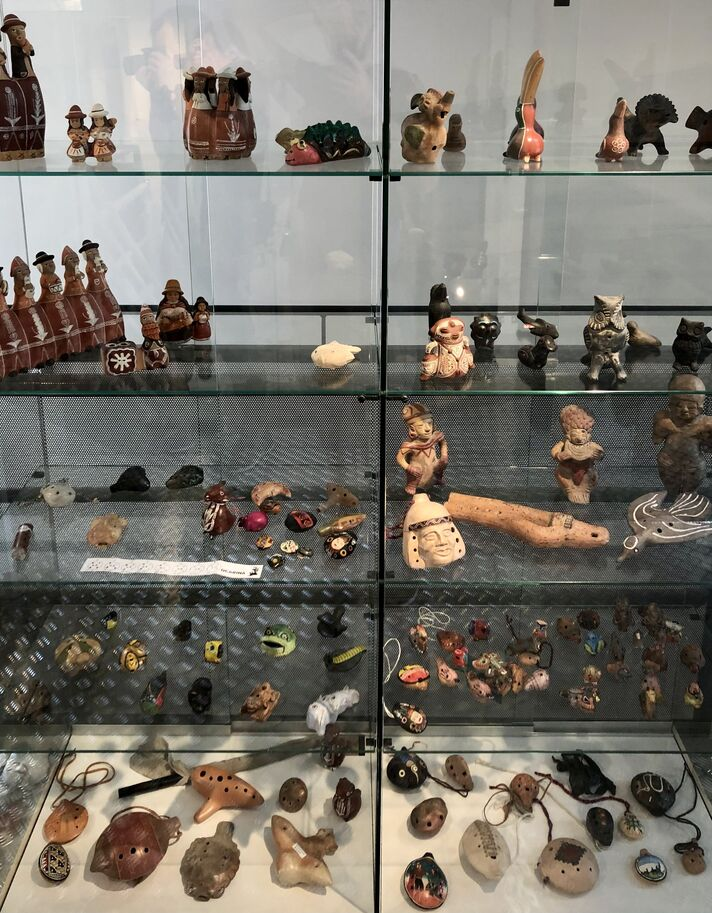
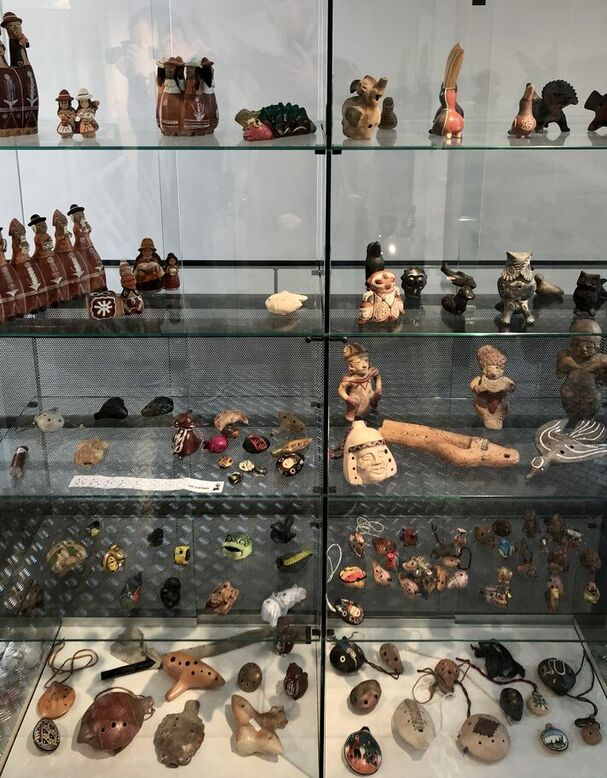
fix usa

Changed region(s): [[0.0593, 0.9254, 0.089, 0.9563]]

diff --git a/it/mondo.html b/it/mondo.html
@@ -122,7 +122,7 @@
 			<h2>Europa</h2>
 			<p>Oltre che a Budrio, sono attivi <strong>vari costruttori in Italia ed Europa</strong>: Austria (dove l'ocarina è comunemente utilizzata nella musica popolare), Germania, Francia, Spagna, Romania, Scandinavia ecc. In molti casi la costruzione di ocarine si unisce a quella dei tradizionali fischietti in argilla.<br />
 			In Gran Bretagna è molto diffusa (anche nelle scuole) un tipo di ocarina a forma di uovo con 4 o 6 fori, inventato dal musicista John Taylor negli anni '60 ispirandosi ai flaut globulari sudamericani.</p>
-			<div class="teche">
+			<div class="teche2">
 				<div class="card griglia">
 					<img src="../img/tecaitalia.jpg" class="card-img-top" alt="costruttori italiani contemporanei">
 					<div class="card-body">
@@ -133,12 +133,6 @@
 					<img src="../img/tecaeuropa.jpg" class="card-img-top" alt="costruttori europei">
 					<div class="card-body">
 						<p class="card-text">Austria e Europa</p>
-					</div>
-				</div>
-				<div class="card griglia">
-					<img src="../img/tecaing.jpg" class="card-img-top" alt="costruttori inglesi">
-					<div class="card-body">
-						<p class="card-text">Gran Bretagna</p>
 					</div>
 				</div>
 			</div>
@@ -174,7 +168,20 @@
 			<h2>America</h2>
 			<p>Negli USA l'ocarina è abbastanza popolare tra i giovani, anche grazie al successo del videogioco <em>The Legend of Zelda: Ocarina of Time</em> della Nintendo.</p>
 			<p>In <strong>America Latina</strong> (Cile, Perù, Messico, America Centrale) i flauti globulari zoomorfi ed antropomorfi hanno una tradizione antichissima che prosegue ancora oggi</p>
-			<div style="text-align: center;"><img src="../img/fischiettiamerica.jpg" alt="fischietti sudamericani" style="max-width: 90vw; width: 500px;" /></div>
+			<div class="teche2">
+				<div class="card griglia">
+					<img src="../img/tecausa.jpg" class="card-img-top" alt="costruttori statunitensi">
+					<div class="card-body">
+						<p class="card-text">USA</p>
+					</div>
+				</div>
+				<div class="card griglia">
+					<img src="../img/fischiettiamerica.jpg" class="card-img-top" alt="fischietti america latina">
+					<div class="card-body">
+						<p class="card-text">America Latina</p>
+					</div>
+				</div>
+			</div>
 		</section>
 
 		<section class="sezioni maxw spazio">

diff --git a/en/world.html b/en/world.html
@@ -122,7 +122,7 @@
 			<h2>Europe</h2>
 			<p>Outside of Budrio, <strong>various manufacturers are active in Italy and Europe</strong>: Austria (where the ocarina is commonly used in popular music)), Germany, France, Spain, Romania, Scandinavia, etc. In many cases the construction of ocarinas is combined with that of traditional clay whistles.<br />
 			In Great Britain a type of egg-shaped ocarina with 4 or 6 holes is very common (even in schools), invented by the musician John Taylor in the 60s inspired by South American globular flutes.</p>
-			<div class="teche">
+			<div class="teche2">
 				<div class="card griglia">
 					<img src="../img/tecaitalia.jpg" class="card-img-top" alt="costruttori italiani contemporanei">
 					<div class="card-body">
@@ -133,12 +133,6 @@
 					<img src="../img/tecaeuropa.jpg" class="card-img-top" alt="costruttori europei">
 					<div class="card-body">
 						<p class="card-text">Austria and Europe</p>
-					</div>
-				</div>
-				<div class="card griglia">
-					<img src="../img/tecaing.jpg" class="card-img-top" alt="costruttori inglesi">
-					<div class="card-body">
-						<p class="card-text">Great Britain</p>
 					</div>
 				</div>
 			</div>
@@ -174,7 +168,20 @@
 			<h2>America</h2>
 			<p>In the USA the ocarina is quite popular among young people, also thanks to the success of the video game <em>The Legend of Zelda: Ocarina of Time</em> by Nintendo.</p>
 			<p>In <strong>Latin America</strong> (Chile, Peru, Mexico, Central America) the zoomorphic and anthropomorphic globular flutes have an ancient tradition that continues today.</p>
-			<div style="text-align: center;"><img src="../img/fischiettiamerica.jpg" alt="fischietti sudamericani" style="max-width: 90vw; width: 500px;" /></div>
+			<div class="teche2">
+				<div class="card griglia">
+					<img src="../img/tecausa.jpg" class="card-img-top" alt="costruttori statunitensi">
+					<div class="card-body">
+						<p class="card-text">USA</p>
+					</div>
+				</div>
+				<div class="card griglia">
+					<img src="../img/fischiettiamerica.jpg" class="card-img-top" alt="fischietti america latina">
+					<div class="card-body">
+						<p class="card-text">Latin America</p>
+					</div>
+				</div>
+			</div>
 		</section>
 
 		<section class="sezioni maxw spazio">

diff --git a/css/style.css b/css/style.css
@@ -453,15 +453,22 @@ div.griglia.active {
 	grid-gap: 2vw;
 }
 
-.teche .griglia {
+.teche2 {
+	display: grid;
+	grid-template-areas: "it eu";
+	margin: 30px auto;
+	grid-gap: 2vw;
+	}
+
+.teche .griglia, .teche2 .griglia {
 	padding: 0;
 }
 
-.teche .griglia:hover {
+.teche .griglia:hover, .teche2 .griglia:hover {
 	opacity: 1;
 }
 
-.teche img {
+.teche img, .teche2 img {
 	margin: auto;
 	transition-duration: 0.2s;
 	border-radius: 5px;

diff --git a/css/responsive.css b/css/responsive.css
@@ -23,7 +23,7 @@
 		padding: 2rem;
 	}
 
-	.teche {
+	.teche, .teche2 {
 		display: block;
 	}
 
